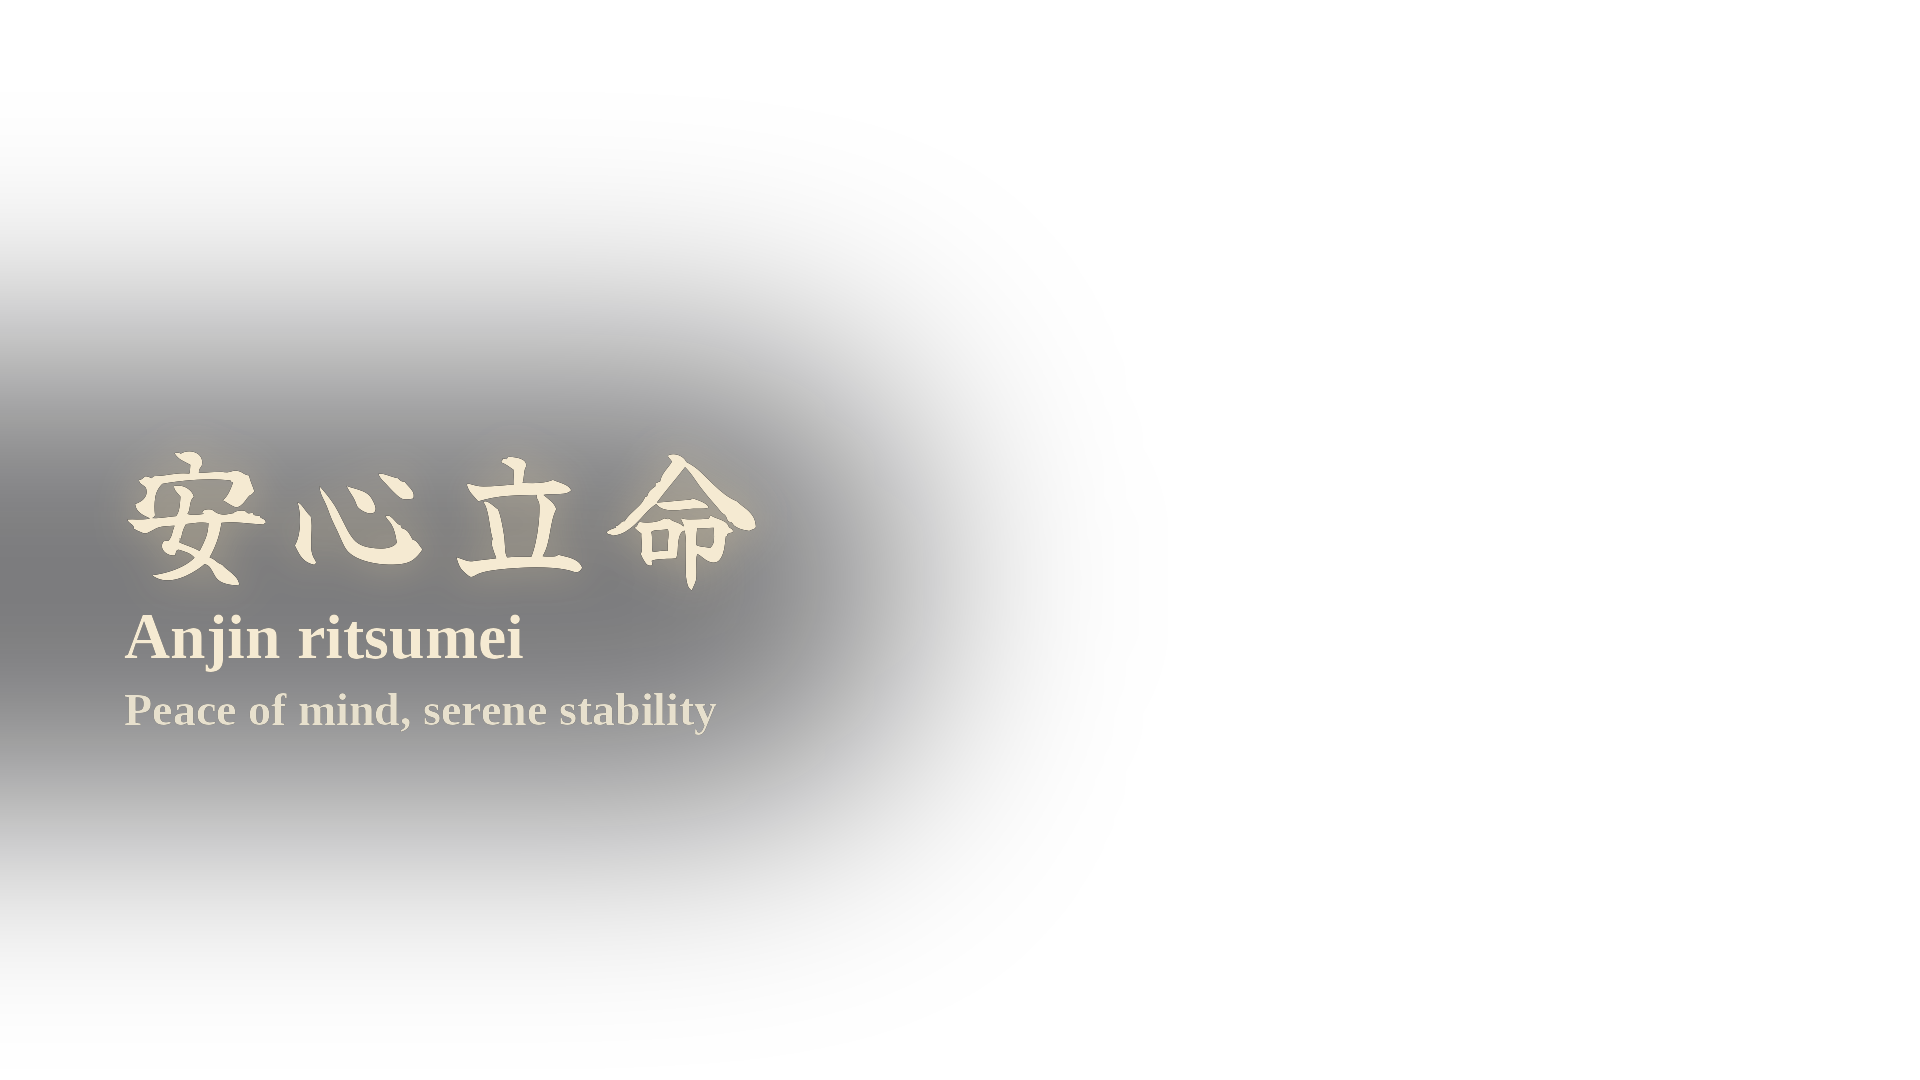
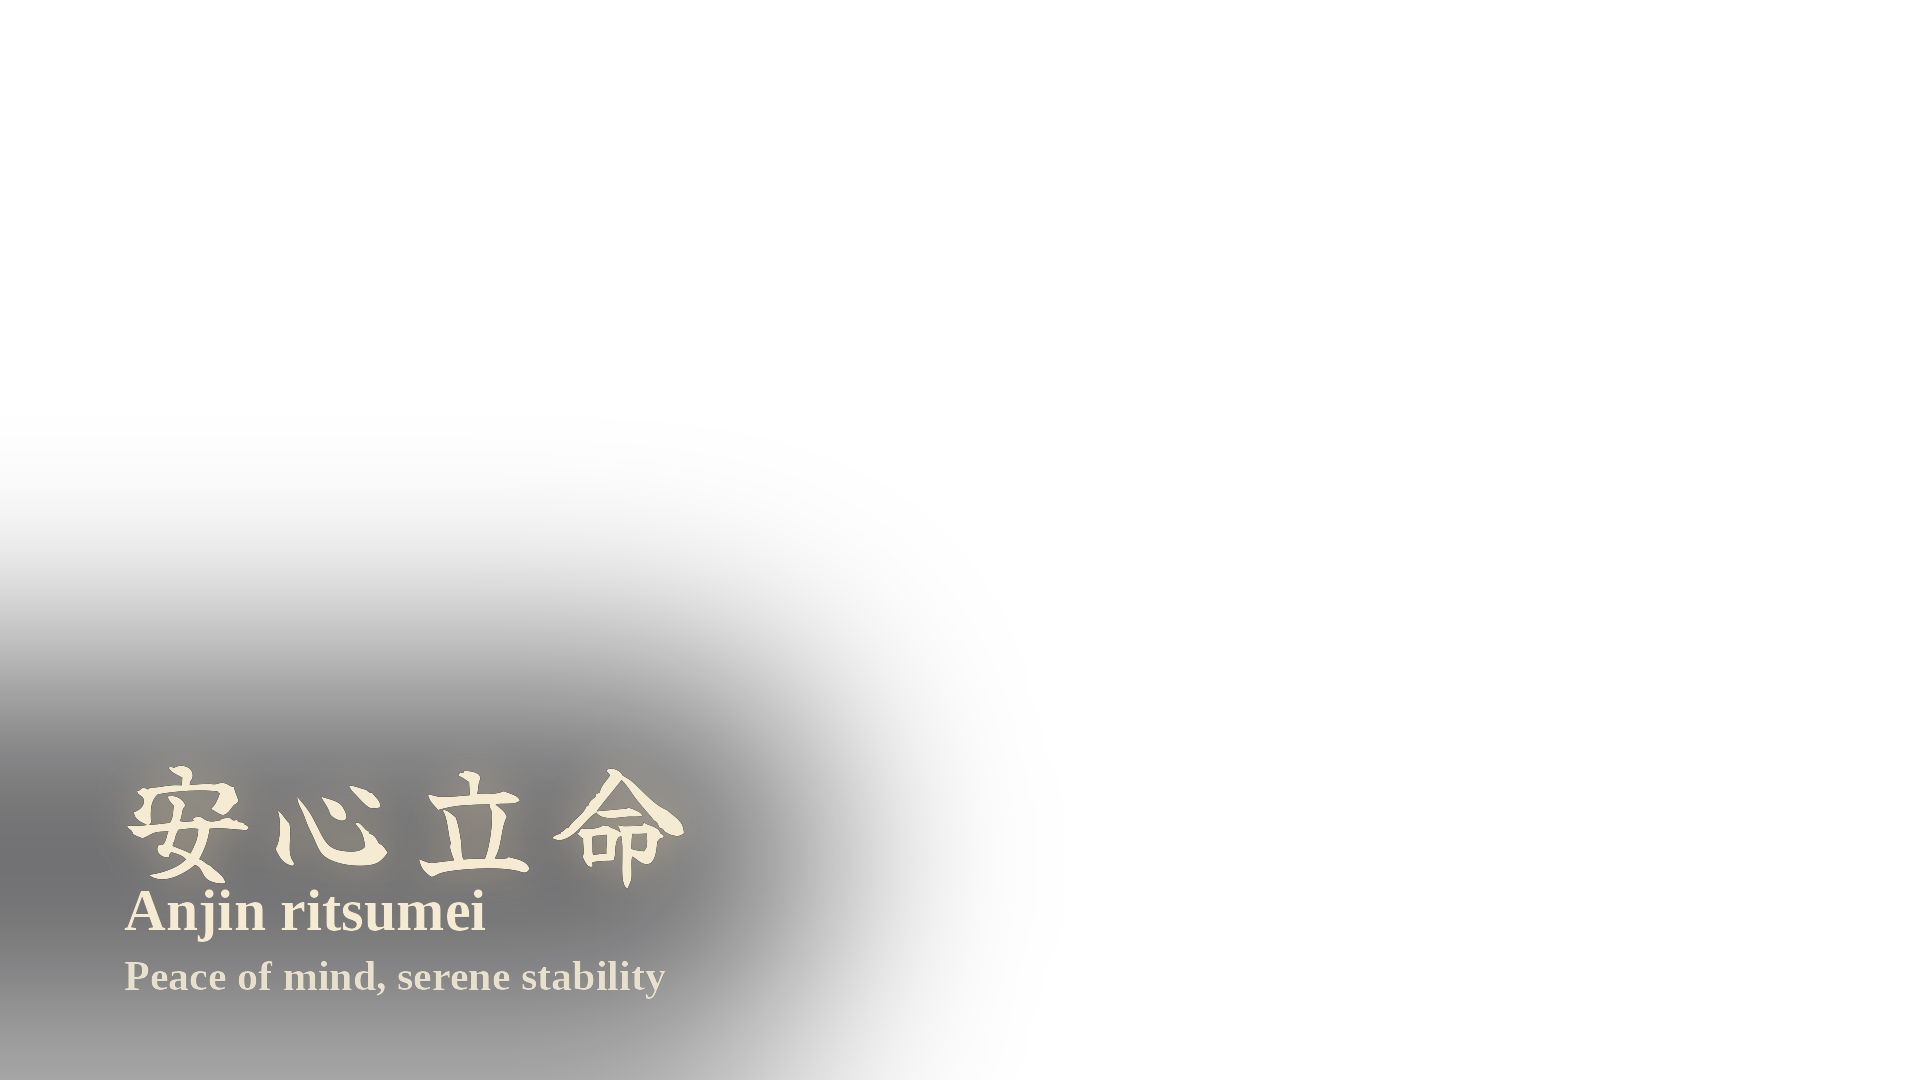
KOKORO wisdom overlay: move 安心立命 to lower-left empty zone

diff --git a/stillwave/assets/kokoro-wisdom-overlay.py b/stillwave/assets/kokoro-wisdom-overlay.py
@@ -21,16 +21,16 @@ X = 120
 
 img = Image.new("RGBA", (W, H), (0, 0, 0, 0))
 
-# soft scrim so cream reads over the dark temple pillar / shadow on the left
+# soft scrim so cream reads over the dark tatami / shadow in the lower-left
 s = Image.new("RGBA", (W, H), (0, 0, 0, 0))
-ImageDraw.Draw(s).rounded_rectangle((-200, 360, 900, 800), radius=180, fill=(6, 6, 9, 140))
-img.alpha_composite(s.filter(ImageFilter.GaussianBlur(110)))
+ImageDraw.Draw(s).rounded_rectangle((-200, 660, 820, 1060), radius=170, fill=(6, 6, 9, 150))
+img.alpha_composite(s.filter(ImageFilter.GaussianBlur(100)))
 
 # 安心立命 — brush kanji, cream, faint warm glow for legibility over the wood
-f = ImageFont.truetype(KANJI, 150)
+f = ImageFont.truetype(KANJI, 132)
 mask = Image.new("L", (W, H), 0)
 md = ImageDraw.Draw(mask)
-chars, pitch, y0 = ["安", "心", "立", "命"], 162, 400
+chars, pitch, y0 = ["安", "心", "立", "命"], 144, 720
 l0, _, r0, _ = f.getbbox(chars[0])
 c0 = X + (r0 - l0) / 2
 for i, ch in enumerate(chars):
@@ -44,9 +44,9 @@ img.alpha_composite(Image.composite(Image.new("RGBA", (W, H), CREAM),
                                     Image.new("RGBA", (W, H), (0, 0, 0, 0)), mask))
 
 d = ImageDraw.Draw(img)
-d.text((X + 4, 600), "Anjin ritsumei", font=ImageFont.truetype(SERIF, 64), fill=CREAM)
-d.text((X + 4, 684), "Peace of mind, serene stability",
-       font=ImageFont.truetype(SERIF, 46), fill=SUB)
+d.text((X + 4, 878), "Anjin ritsumei", font=ImageFont.truetype(SERIF, 58), fill=CREAM)
+d.text((X + 4, 952), "Peace of mind, serene stability",
+       font=ImageFont.truetype(SERIF, 42), fill=SUB)
 
 img.save(OUT)
 print("saved", OUT)
